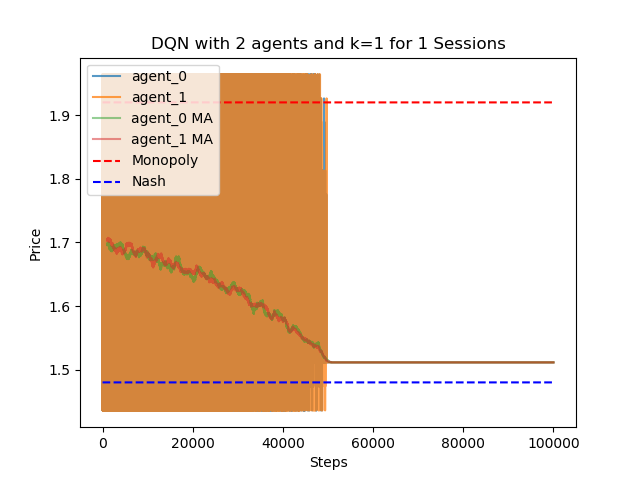
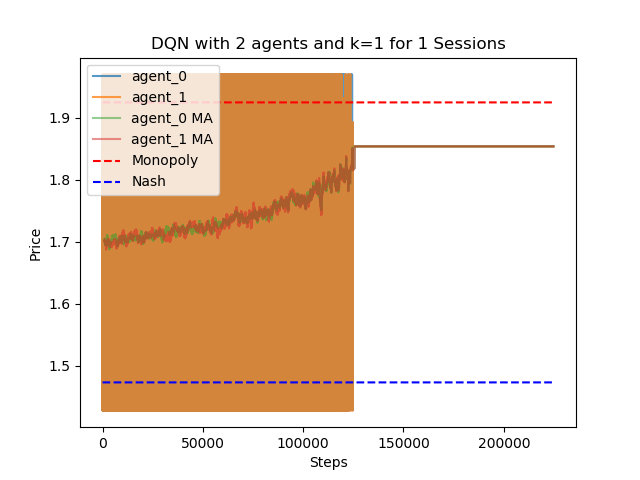
auto

diff --git a/gym_bertrand_test.py b/gym_bertrand_test.py
@@ -15,27 +15,35 @@ import matplotlib.pyplot as plt
 from ray.tune.registry import register_env
 from ray.tune.logger import pretty_print
 
+path = os.path.abspath(os.getcwd())
+
 # CHANGE PARAMETERS FOR TESTING
 # Parameters
 num_agents = 2
-k = 2
+k = 1
 m = 15
 max_steps = 1000000 # 1000000000 from Calvano paper
 convergence = 100000
 sessions = 1
-state_space = 'continuous' # 'discrete' or 'continuous'
+state_space = 'discrete' # 'discrete' or 'continuous'
 
 use_pickle = True
 num_gpus = 0
 overwrite_id = 0
 len_eval_after_deviation = 20
 # choose from QL, SARSA, DQN, PPO, A3C, A2C, DDPG
-trainer_choice = 'DDPG'
+trainer_choice = 'DQN'
+
+# Hyperparameters
+alpha = 0.15 # Change these to test Calvano results
+beta = 0.00001 # Change these to test Calvano results
+delta = 0.95
+log_frequency = 50000
 
 if state_space == 'discrete':
-    env = BertrandCompetitionDiscreteEnv(num_agents=num_agents, k=k, m=m, max_steps=max_steps, sessions=sessions, convergence=convergence, trainer_choice=trainer_choice, use_pickle=use_pickle)
+    env = BertrandCompetitionDiscreteEnv(num_agents=num_agents, k=k, m=m, max_steps=max_steps, sessions=sessions, convergence=convergence, trainer_choice=trainer_choice, use_pickle=use_pickle, path=path)
 elif state_space == 'continuous':
-    env = BertrandCompetitionContinuousEnv(num_agents=num_agents, k=k, max_steps=max_steps, sessions=sessions, trainer_choice=trainer_choice, use_pickle=use_pickle)
+    env = BertrandCompetitionContinuousEnv(num_agents=num_agents, k=k, max_steps=max_steps, sessions=sessions, trainer_choice=trainer_choice, use_pickle=use_pickle, path=path)
 
 config = {
     'env_config': {
@@ -49,7 +57,7 @@ config = {
     # Change 'explore' to True to False to evaluate (https://docs.ray.io/en/master/rllib-training.html)
     # 'monitor': True,
     # Change 'log_level' to 'INFO' for more information
-    'gamma': 0.95
+    'gamma': delta
 } # Perhaps specify to use GPU in config? (https://docs.ray.io/en/latest/using-ray-with-gpus.html)
 
 savefile = './arrays/' + state_space + '_' + trainer_choice + '_with_' + str(num_agents) + '_agents_k_' + str(k) + '_for_' + str(sessions) + '_sessions.pkl'
@@ -91,7 +99,7 @@ if trainer_choice not in ['QL', 'SARSA']:
                 # Config for the Exploration class' constructor:
                 "initial_epsilon": 1.0,
                 "final_epsilon": 0.000001,
-                "epsilon_timesteps": 100000,  # Timesteps over which to anneal epsilon.
+                "epsilon_timesteps": 250000,  # Timesteps over which to anneal epsilon.
             }
         trainer = DQNTrainer(config = config, env = 'Bertrand')
     elif trainer_choice == 'PPO':
@@ -117,21 +125,31 @@ if trainer_choice not in ['QL', 'SARSA']:
     if use_pickle and os.path.isfile(savefile):
         os.remove(savefile)
 
-    # analysis = tune.run(trainer_choice, config=config, local_dir='./log', checkpoint_at_end=True)
-    # checkpoints = analysis.get_trial_checkpoints_paths(trial=analysis.get_best_trial("episode_reward_mean"), metric="episode_reward_mean")
+    analysis = tune.run(
+        trainer_choice, 
+        # num_samples = 4,
+        config = config, 
+        local_dir = './log', 
+        stop = {'training_iteration': 1},
+        mode = 'max',
+        metric = 'episode_reward_mean',
+        checkpoint_at_end = True
+    )
 
-    for i in range(sessions):
-        result = trainer.train()
+    trainer.restore(analysis.best_checkpoint)
 
-        print(s.format(
-        i + 1,
-        result["episode_reward_min"],
-        result["episode_reward_mean"],
-        result["episode_reward_max"],
-        result["episode_len_mean"]))
+    # for i in range(sessions):
+    #     result = trainer.train()
 
-        # checkpoint = trainer.save()
-        # print('Checkpoint: ', checkpoint)
+    #     print(s.format(
+    #     i + 1,
+    #     result["episode_reward_min"],
+    #     result["episode_reward_mean"],
+    #     result["episode_reward_max"],
+    #     result["episode_len_mean"]))
+
+    #     checkpoint = trainer.save()
+    #     print('Checkpoint: ', checkpoint)
 
     if use_pickle:
         action_history_list = []
@@ -165,12 +183,6 @@ if trainer_choice not in ['QL', 'SARSA']:
 elif trainer_choice == 'QL':
     # Q-learning
 
-    # Hyperparameters
-    alpha = 0.15 # Change these to test Calvano results
-    beta = 0.00001 # Change these to test Calvano results
-    delta = 0.95
-    log_frequency = 50000
-
     q_learner = Q_Learner(env, num_agents=num_agents, m=m, alpha=alpha, beta=beta, delta=delta, sessions=sessions, log_frequency=log_frequency)
 
     q_learner.train()
@@ -193,12 +205,6 @@ elif trainer_choice == 'QL':
 elif trainer_choice == 'SARSA':
     # SARSA
     # NOTE: This is the same as Q-learning since our 'policy' is to take the maximum value action
-
-    # Hyperparameters
-    alpha = 0.15 # Change these to test Calvano results
-    beta = 0.00001 # Change these to test Calvano results
-    delta = 0.95
-    log_frequency = 50000
 
     sarsa = SARSA(env, num_agents=num_agents, m=m, alpha=alpha, beta=beta, delta=delta, sessions=sessions, log_frequency=log_frequency)
 

diff --git a/gym_bertrandcompetition/envs/bertrand_competition_continuous.py b/gym_bertrandcompetition/envs/bertrand_competition_continuous.py
@@ -15,7 +15,7 @@ import warnings
 class BertrandCompetitionContinuousEnv(MultiAgentEnv):
     metadata = {'render.modes': ['human']}
 
-    def __init__(self, num_agents = 2, c_i = 1, a_minus_c_i = 1, a_0 = 0, mu = 0.25, delta = 0.95, xi = 0.1, k = 1, max_steps=200, sessions=1, trainer_choice='A3C', use_pickle=False):
+    def __init__(self, num_agents = 2, c_i = 1, a_minus_c_i = 1, a_0 = 0, mu = 0.25, delta = 0.95, xi = 0.1, k = 1, max_steps=200, sessions=1, trainer_choice='A3C', use_pickle=False, path=''):
 
         super(BertrandCompetitionContinuousEnv, self).__init__()
         self.num_agents = num_agents
@@ -94,6 +94,7 @@ class BertrandCompetitionContinuousEnv(MultiAgentEnv):
         self.players = [ 'agent_' + str(i) for i in range(num_agents)]
         self.action_history = {}
         self.use_pickle = use_pickle
+        self.path = path
         self.savefile = 'continuous_' + self.trainer_choice + '_with_' + str(self.num_agents) + '_agents_k_' + str(self.k) + '_for_' + str(self.sessions) + '_sessions'
 
         for i in range(num_agents):
@@ -114,7 +115,7 @@ class BertrandCompetitionContinuousEnv(MultiAgentEnv):
         actions_list = np.array(list(actions_dict.values())).flatten()
 
         if self.use_pickle:
-            with open('./arrays/' + self.savefile + '.pkl', 'ab') as f:
+            with open(self.path + './arrays/' + self.savefile + '.pkl', 'ab') as f:
                 pickle.dump(actions_list, f)
 
         for i in range(actions_list.size):

diff --git a/gym_bertrandcompetition/envs/bertrand_competition_discrete.py b/gym_bertrandcompetition/envs/bertrand_competition_discrete.py
@@ -17,7 +17,7 @@ import warnings
 class BertrandCompetitionDiscreteEnv(MultiAgentEnv):
     metadata = {'render.modes': ['human']}
 
-    def __init__(self, num_agents = 2, c_i = 1, a_minus_c_i = 1, a_0 = 0, mu = 0.25, delta = 0.95, m = 15, xi = 0.1, k = 1, max_steps=200, sessions=1, convergence=5, trainer_choice='DQN', use_pickle=False):
+    def __init__(self, num_agents = 2, c_i = 1, a_minus_c_i = 1, a_0 = 0, mu = 0.25, delta = 0.95, m = 15, xi = 0.1, k = 1, max_steps=200, sessions=1, convergence=5, trainer_choice='DQN', use_pickle=False, path=''):
 
         super(BertrandCompetitionDiscreteEnv, self).__init__()
         self.num_agents = num_agents
@@ -126,6 +126,7 @@ class BertrandCompetitionDiscreteEnv(MultiAgentEnv):
         self.players = [ 'agent_' + str(i) for i in range(num_agents)]
         self.action_history = {}
         self.use_pickle = use_pickle
+        self.path = path
         self.savefile = 'discrete_' + self.trainer_choice + '_with_' + str(self.num_agents) + '_agents_k_' + str(self.k) + '_for_' + str(self.sessions) + '_sessions'
 
         for i in range(num_agents):
@@ -156,7 +157,7 @@ class BertrandCompetitionDiscreteEnv(MultiAgentEnv):
         # print(actions_idx)
 
         if self.use_pickle:
-            with open('./arrays/' + self.savefile + '.pkl', 'ab') as f:
+            with open(self.path + './arrays/' + self.savefile + '.pkl', 'ab') as f:
                 pickle.dump(actions_idx, f)
 
         for i in range(actions_idx.size):
